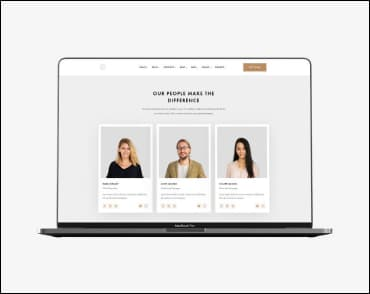
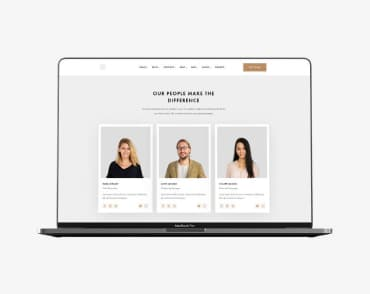
first-fix-after-sumbit

Changed region(s): [[0.0, 0.0, 1.0, 1.0], [0.4162, 0.7959, 0.8324, 0.8265], [0.327, 0.7959, 0.3865, 0.8265]]

diff --git a/index.html b/index.html
@@ -29,7 +29,7 @@
                             <svg class="envelope">
                                 <use href="./images/symbol-defs.svg#icon-envelope"></use>
                             </svg>
-                            <p>info@devstudio.com</p>
+                            info@devstudio.com
                         </a>
                     </li>
                     <li class="header-contacts-item">
@@ -37,7 +37,7 @@
                             <svg class="smartphone">
                                 <use href="./images/symbol-defs.svg#icon-smartphone"></use>
                             </svg>
-                           <p>+38 096 111 11 11</p>
+                           +38 096 111 11 11
                         </a>
                     </li>
                 </ul>
@@ -338,14 +338,14 @@
                 <div class="footer-second-block">
                     <p>ПРИСОЕДИНЯЙТЕСЬ</p>
                     <ul class="footer-team-links">
-                        <li class="footer-inst">
+                        <li>
                             <a href="">
                                 <svg>
                                     <use href="./images/symbol-defs.svg#icon-instagram-2"></use>
                                 </svg>
                             </a>
                         </li>
-                        <li class="footer-twitter">
+                        <li>
                             <a href="">
                                 <svg>
                                     <use href="./images/symbol-defs.svg#icon-twitter-1"></use>

diff --git a/css/styles.css b/css/styles.css
@@ -138,6 +138,8 @@ header {
   text-transform: uppercase;
 }
 .hero {
+  margin: 0 auto;
+  max-width: 1600px;
   padding: 200px 0;
 
   background-color: var(--primary-bg-color);
@@ -194,7 +196,6 @@ header {
   padding: 94px 0;
 
   background-color: var(--secondary-bg-color);
-  filter: drop-shadow(0px 4px 4px rgba(0, 0, 0, 0.25));
 }
 
 .team h3 {
@@ -249,8 +250,12 @@ footer {
   width: 370px;
 }
 
-.cards li:hover,
-.cards li:focus {
+.cards a {
+  display: block;
+}
+
+.cards a:hover,
+.cards a:focus {
   box-shadow: 0px 1px 1px rgba(0, 0, 0, 0.12), 0px 4px 4px rgba(0, 0, 0, 0.06),
     1px 4px 6px rgba(0, 0, 0, 0.16);
 }
@@ -348,7 +353,7 @@ footer .logo {
   margin-right: 0;
 }
 
-footer li:not(:last-child) {
+.footer-first-block li:not(:last-child) {
   margin-bottom: 9px;
 }
 
@@ -413,14 +418,11 @@ footer li:not(:last-child) {
 
 .footer-block {
   display: flex;
+  align-items: baseline;
 }
 
 .footer-first-block {
   margin-right: 70px;
-}
-
-.footer-second-block {
-  margin-top: 12px;
 }
 
 .footer-second-block p {
@@ -489,11 +491,12 @@ footer li:not(:last-child) {
 
 .team-links a,
 .footer-team-links a {
-  display: block;
+  display: flex;
+  justify-content: center;
+  align-items: center;
   width: 100%;
   height: 100%;
   border-radius: 50%;
-  padding: 12px 12px;
   fill: currentColor;
 }
 
@@ -544,10 +547,6 @@ footer li:not(:last-child) {
 .footer-team-links a {
   background-color: rgba(255, 255, 255, 0.1);
   fill: var(--white);
-}
-
-.footer-twitter a {
-  background-color: var(--icon-accent);
 }
 
 .footer-inst a {

diff --git a/portfolio.html b/portfolio.html
@@ -172,7 +172,7 @@
                                 </svg>
                             </a>
                         </li>
-                        <li class="footer-twitter">
+                        <li>
                             <a href="">
                                 <svg>
                                     <use href="./images/symbol-defs.svg#icon-twitter-1"></use>
